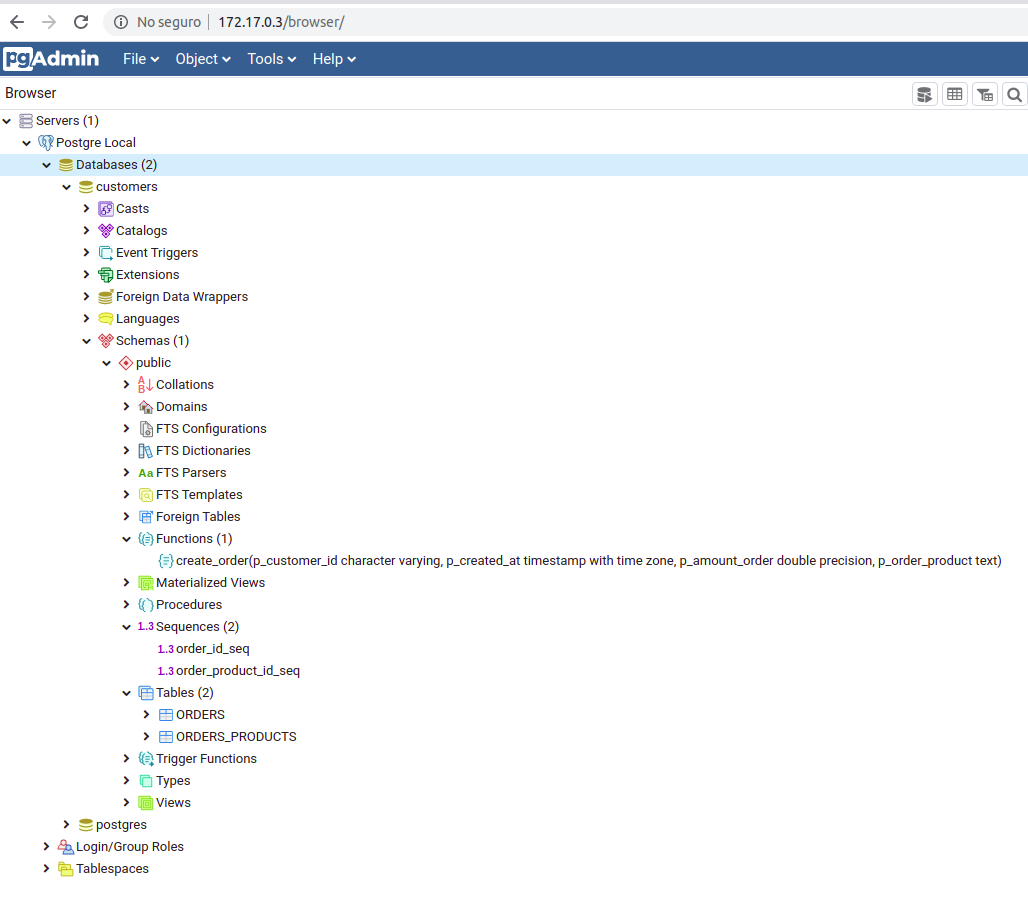
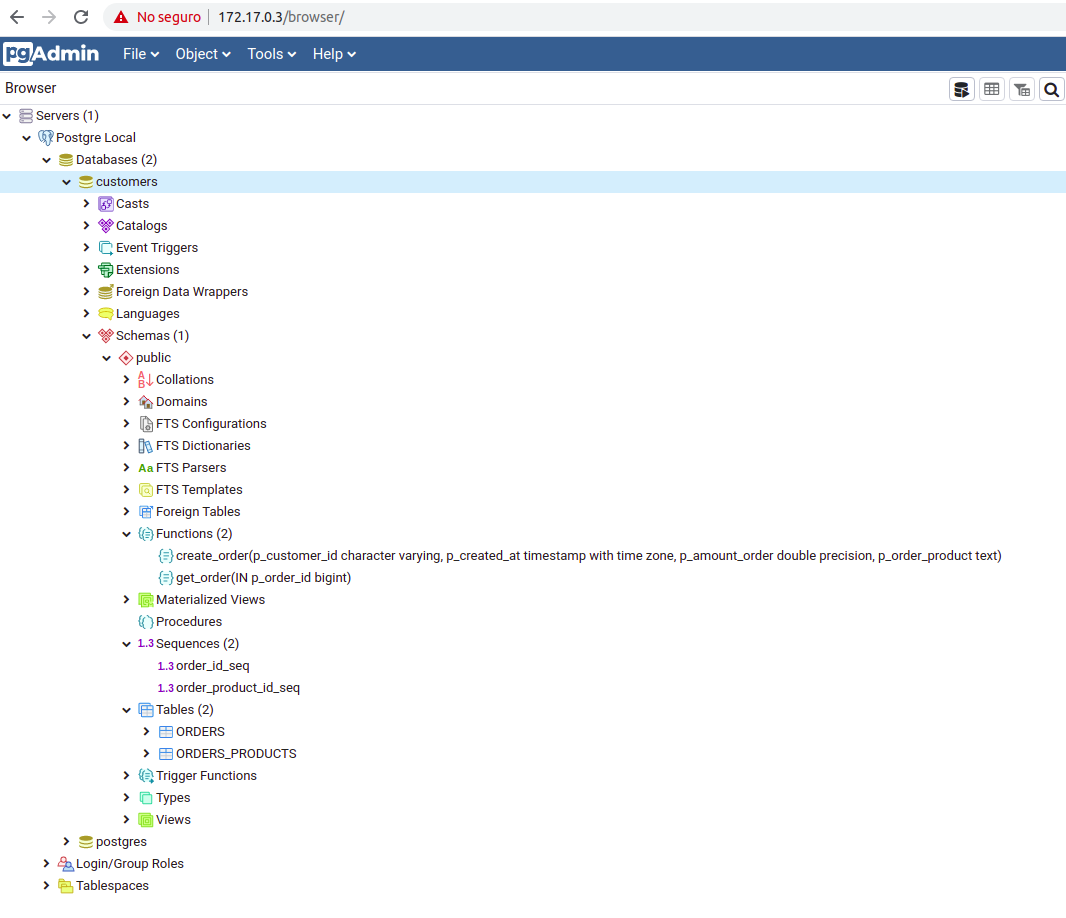
Order Microservice: Update GetOrderUseCase

Changed region(s): [[0.0, 0.0, 1.0, 0.9956]]

diff --git a/Order/README.md b/Order/README.md
@@ -62,5 +62,15 @@ jmendoza@jmendoza-ThinkPad-T420:~$ docker inspect postgres
 
 **Postman**
 
-![Screenshot](prtsc/Product-4.png)
+![Screenshot](prtsc/Order-12.png)
 
+**PostgreSQL**
+
+![Screenshot](prtsc/Order-10.png)
+
+![Screenshot](prtsc/Order-11.png)
+
+```shell
+[2020-06-04 21:52:50.882] [TRACE] [jmendoza-ThinkPad-T420] [http-nio-3002-exec-7] [zalando.logbook.Logbook] | {"origin":"remote","type":"request","correlation":"91d731033f99fbed","protocol":"HTTP/1.1","remote":"0:0:0:0:0:0:0:1","method":"GET","uri":"http://localhost:3002/v1/orders/33","headers":{"accept":["*/*"],"accept-encoding":["gzip, deflate, br"],"accept-language":["es-419,es-US;q=0.9,es;q=0.8,en-US;q=0.7,en;q=0.6"],"cache-control":["no-cache"],"connection":["keep-alive"],"host":["localhost:3002"],"postman-token":["8fe08c78-dcb0-9f1e-a0a8-62f731d232a4"],"sec-fetch-dest":["empty"],"sec-fetch-mode":["cors"],"sec-fetch-site":["none"],"user-agent":["Mozilla/5.0 (X11; Linux x86_64) AppleWebKit/537.36 (KHTML, like Gecko) Chrome/83.0.4103.61 Safari/537.36"]}}
+[2020-06-04 21:52:50.893] [TRACE] [jmendoza-ThinkPad-T420] [http-nio-3002-exec-7] [zalando.logbook.Logbook] | {"origin":"local","type":"response","correlation":"91d731033f99fbed","duration":11,"protocol":"HTTP/1.1","status":200,"headers":{"Connection":["keep-alive"],"Content-Type":["application/json"],"Date":["Fri, 05 Jun 2020 01:52:50 GMT"],"Keep-Alive":["timeout=60"],"Transfer-Encoding":["chunked"]},"body":{"orderId":"33","customerId":"5ed047dda2923f1ac2c64463","createdAt":"2020-06-03T22:34:12.000+00:00","orderProductList":[{"orderProductId":13,"quantity":2,"productId":"5ed31ddb669529409edc2fd0","productPrice":1099.51},{"orderProductId":14,"quantity":1,"productId":"5ed31cb5669529409edc2fcf","productPrice":2199.99}],"amountOrder":4399.01}}
+```
